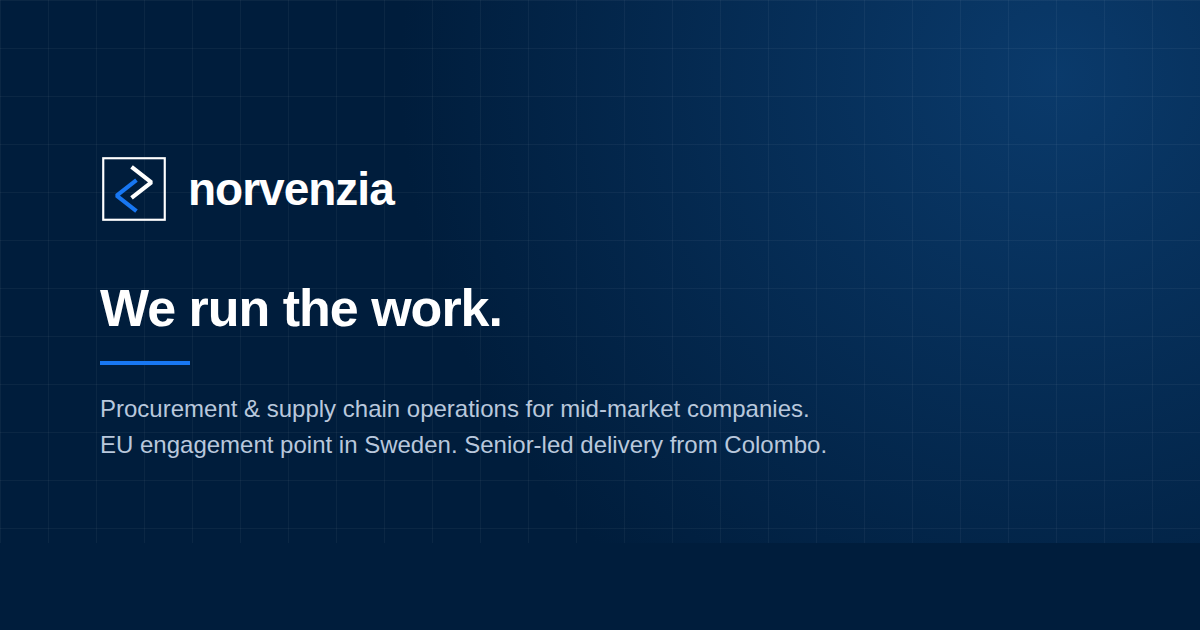
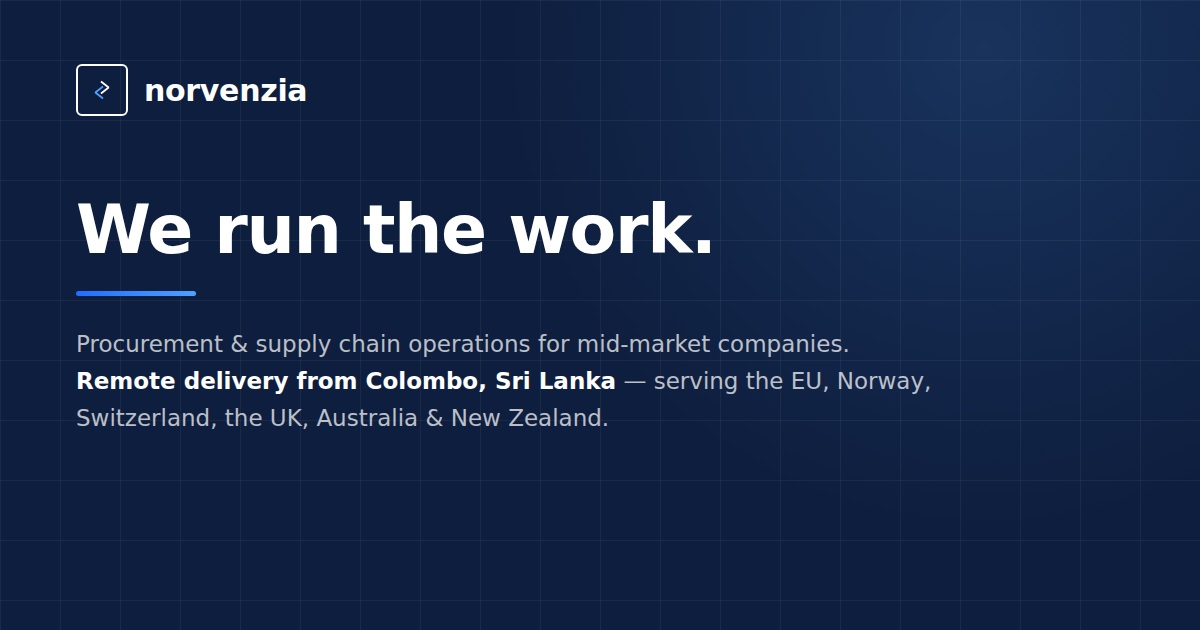
Remove the retired Sweden/Gothenburg dual-location model; single remote Colombo hub going forward
Business model change: Norvenzia now operates entirely remotely from a
single Colombo, Sri Lanka hub -- no office or physical presence anywhere
else. Serves clients internationally (wider EU, Norway, Switzerland, UK,
Australia, New Zealand) purely through remote delivery, not local
presence. Every "EU engagement point in Sweden" / Gothenburg reference
site-wide is retired.

- content/site.js: description rewritten; engagementPoint/deliveryHub
  (implied two locations) collapsed into a single `hub: 'Colombo, Sri
  Lanka'` field. Swedish phone number kept as-is for now, per explicit
  instruction, with a TODO flagging it for later revisit.
- content/how-we-work.js (The Model page): full rewrite -- meta
  description, hero body, the "Two locations, one accountable team"
  section renamed to "One hub, one accountable team" with new copy, the
  two Sweden/Sri Lanka panels replaced with "The hub" (Colombo, real
  flag image) and "The reach" (remote coverage across the listed
  markets, no invented second office or image), and the Sweden<->Sri
  Lanka data-flow FAQ item reworded to match.
- content/home.js: homepage FAQ "Are you based in Europe?" answer
  rewritten -- Colombo-only, remote.
- content/who-we-are.js: founder story's "owned from Gothenburg" removed.
- content/legal.js: privacy policy's "Who we are" and "Where your data is
  handled" sections rewritten around the single Colombo team instead of
  the Sweden-then-Sri-Lanka data flow. Still counselReviewed: false
[…]

Changed region(s): [[0.0617, 0.4524, 0.7708, 0.7238], [0.0617, 0.2413, 0.5858, 0.4222], [0.0617, 0.0905, 0.2775, 0.2111]]

diff --git a/content/how-we-work.js b/content/how-we-work.js
@@ -2,36 +2,41 @@ module.exports = {
   meta: {
     title: 'The Model — Norvenzia',
     description:
-      'An EU engagement point in Sweden paired with a senior-led delivery hub in Sri Lanka. Documented process, and a straight account of our security posture today.'
+      'A single Colombo-based team delivering senior-led procurement and supply chain operations remotely to clients across the EU, Norway, Switzerland, the UK, Australia, and New Zealand.'
   },
 
   hero: {
     eyebrow: 'The model',
     headline: 'A deliberate design, not an outsourcing euphemism.',
     body:
-      'An EU engagement point paired with a Sri Lanka delivery hub is the whole point of the model — not a detail we hide in the footer.'
+      'A senior, Colombo-based team running your procurement and supply chain operations remotely — not a detail we hide in the footer.'
   },
 
+  // Norvenzia is fully remote from a single Colombo hub -- no office or
+  // physical presence anywhere else (see content/site.js). These two panels
+  // are two facets of that one model (where the work happens, who it reaches),
+  // not two locations -- "The reach" panel deliberately carries no image/place,
+  // since there is no second office to show.
   model: {
     eyebrow: 'The model',
-    headline: 'Two locations, one accountable team.',
+    headline: 'One hub, one accountable team.',
     body: [
-      'Sweden is where you reach us. A real point of contact, operating in your time zone and your regulatory context, accountable for the work that gets delivered.',
-      'Sri Lanka is where the work happens. Senior supply chain and procurement analysts — not a rotating call-centre desk — working inside your existing tools and processes.',
-      'The split exists so you get EU-grade accountability and cost-efficient, senior-led delivery in the same engagement. Most outsourcing asks you to trade one for the other.'
+      'Colombo, Sri Lanka is where the work happens — and where you reach us. Senior supply chain and procurement analysts, not a rotating call-centre desk, working inside your existing tools and processes.',
+      'We serve clients across the wider EU, Norway, Switzerland, the UK, Australia, and New Zealand entirely remotely, on Colombo time — with no local office in any of those markets.',
+      'That’s the structure that makes senior-led delivery commercially viable for mid-market clients: proven enterprise-grade practice, applied to a segment usually priced out of it.'
     ],
     panels: [
       {
-        label: 'EU engagement point',
-        place: 'Sweden',
-        image: '/img/regions/se-06.png',
-        body: 'Contracting, communication, and accountability inside the EU.'
+        label: 'The hub',
+        place: 'Colombo, Sri Lanka',
+        image: '/img/regions/lk-06.png',
+        body: 'Senior analysts running your day-to-day procurement operations, in one accountable team.'
       },
       {
-        label: 'Delivery hub',
-        place: 'Sri Lanka',
-        image: '/img/regions/lk-06.png',
-        body: 'Senior analysts running your day-to-day procurement operations.'
+        label: 'The reach',
+        place: 'Remote, by design',
+        image: '',
+        body: 'Clients across the EU, Norway, Switzerland, the UK, Australia, and New Zealand — served remotely, with no local office in any of them.'
       }
     ]
   },
@@ -109,9 +114,9 @@ module.exports = {
           'It’s a fair question, so here’s a straight answer: we’re early, and we’ve said so throughout this site rather than dressing it up. What you get today is senior attention on your operation, run by someone with hands-on supply chain and procurement experience across telecom, garments, seafood, and logistics — not scale we haven’t earned yet. A discovery call costs you thirty minutes and tells you directly whether that trade-off works for your operation.'
       },
       {
-        question: 'How does our data actually move between Sweden and Sri Lanka?',
+        question: 'Where is our data actually handled?',
         answer:
-          'Your engagement point in Sweden handles contracting and communication. Where work is delivered from Sri Lanka, access is limited to the analysts assigned to your account, under confidentiality terms in every engagement agreement, with a Data Processing Agreement available on request. Full detail is in the data security section above.'
+          'Everything runs through our Colombo team. Access is limited to the analysts assigned to your account, under confidentiality terms in every engagement agreement, with a Data Processing Agreement available on request. Full detail is in the data security section above.'
       },
       {
         question: 'Do you replace our procurement team, or work alongside it?',

diff --git a/content/site.js b/content/site.js
@@ -1,6 +1,10 @@
 // Company facts, contact details, base URL.
-// TODO(founder): confirm the exact Sweden engagement-point framing and the
-// registered-company wording for the footer.
+//
+// Operating model (confirmed): Norvenzia is fully remote from a single hub in
+// Colombo, Sri Lanka -- no office or physical presence anywhere else. Clients
+// are served internationally (wider EU, Norway, Switzerland, UK, Australia,
+// New Zealand) entirely through remote delivery, not local presence. The
+// former "EU engagement point in Sweden" framing is retired.
 
 module.exports = {
   legalEntity: 'Norvenzia (Private) Limited',
@@ -11,17 +15,22 @@ module.exports = {
   // actual differentiator.
   tagline: 'We run the work.',
   description:
-    'Norvenzia runs procurement and supply chain operations for mid-market companies — an EU engagement point in Sweden with senior-led delivery from Colombo.',
+    'Norvenzia runs procurement and supply chain operations for mid-market companies — a single Colombo-based team, delivered fully remotely to clients across the EU, Norway, Switzerland, the UK, Australia, and New Zealand.',
   // Two genuinely separate inboxes — contactEmail is the contact-form
   // destination and the address shown on the contact page / home CTA;
   // footerEmail is a distinct address that only ever appears in the
   // footer. Do not merge these.
   contactEmail: 'info@norvenzia.com',
   footerEmail: 'contact@norvenzia.com',
+  // TODO(founder): this is a legacy Swedish number, kept for now at the
+  // founder's explicit instruction even though the business no longer has a
+  // Sweden presence. Revisit once a Colombo-based number (or removing phone
+  // contact entirely) is decided.
   phone: '+46 73 779 5741',
   registrationLine: 'Norvenzia (Private) Limited. All rights reserved.',
-  engagementPoint: 'Sweden',
-  deliveryHub: 'Colombo, Sri Lanka',
+  // Single hub, replacing the former engagementPoint/deliveryHub split (that
+  // pair implied two locations; there is only one now).
+  hub: 'Colombo, Sri Lanka',
   linkedinUrl: 'https://www.linkedin.com/company/norvenzia',
   baseUrl: process.env.BASE_URL || 'https://www.norvenzia.com'
 };

diff --git a/public/css/styles.css b/public/css/styles.css
@@ -1480,10 +1480,9 @@ button {
   padding-top: clamp(1.6rem, 2.4vw, 2.2rem);
 }
 
-/* How We Work's Sweden/Sri Lanka model cards — the same rounded, lifting
-   card chrome used for tier/product/fit cards elsewhere on the site,
-   scoped so the Security section's intentionally plain panels (no photos,
-   no hover) are untouched. */
+/* The Model's hub/reach cards — the same rounded, lifting card chrome used
+   for tier/product/fit cards elsewhere on the site, scoped so the Security
+   section's intentionally plain panels (no photos, no hover) are untouched. */
 .panel--model {
   border-radius: var(--radius-lg);
   transition: border-color 0.25s var(--ease), transform 0.25s var(--ease), box-shadow 0.25s var(--ease);
@@ -3817,69 +3816,6 @@ button {
   border-color: var(--color-text-white);
   background: rgba(255, 255, 255, 0.1);
   color: var(--color-text-white);
-}
-
-/* ---- 31.2 Route line — Gothenburg -> Colombo, replaces stock photography ---- */
-
-.route-line {
-  display: flex;
-  align-items: center;
-  gap: 1rem;
-  margin-top: clamp(3rem, 7vw, 5rem);
-  max-width: 30rem;
-}
-
-.route-line__label {
-  font-family: var(--font-mono);
-  font-size: 0.72rem;
-  letter-spacing: 0.14em;
-  color: var(--color-text-dim);
-  white-space: nowrap;
-}
-
-.route-line__track {
-  position: relative;
-  flex: 1;
-  height: 2px;
-  background: rgba(255, 255, 255, 0.16);
-}
-
-.route-line__dot {
-  position: absolute;
-  top: 50%;
-  width: 6px;
-  height: 6px;
-  border-radius: 50%;
-  background: var(--color-text-dim);
-  transform: translate(-50%, -50%);
-}
-
-.route-line__dot--start {
-  left: 0;
-}
-
-.route-line__dot--end {
-  left: 100%;
-}
-
-.route-line__pulse {
-  position: absolute;
-  top: 50%;
-  left: 0;
-  width: 8px;
-  height: 8px;
-  border-radius: 50%;
-  background: var(--color-accent);
-  box-shadow: 0 0 10px 2px rgba(47, 111, 237, 0.6);
-  transform: translate(-50%, -50%);
-  animation: route-pulse 3.4s ease-in-out infinite;
-}
-
-@keyframes route-pulse {
-  0% { left: 0%; opacity: 0; }
-  8% { opacity: 1; }
-  92% { opacity: 1; }
-  100% { left: 100%; opacity: 0; }
 }
 
 /* ---- 31.3 Social proof strip ---- */

diff --git a/content/legal.js b/content/legal.js
@@ -13,7 +13,7 @@ const privacy = {
     {
       heading: 'Who we are',
       body: [
-        'Norvenzia (Private) Limited runs procurement and supply chain operations for mid-market companies. Our engagement point for European clients is based in Sweden; delivery is carried out from Sri Lanka.',
+        'Norvenzia (Private) Limited runs procurement and supply chain operations for mid-market companies. We operate entirely remotely from a single team in Colombo, Sri Lanka, serving clients internationally.',
         'For any question about this policy, or about data we hold, write to info@norvenzia.com.'
       ]
     },
@@ -42,7 +42,7 @@ const privacy = {
     {
       heading: 'Where your data is handled',
       body: [
-        'Enquiry data reaches our engagement point in Sweden and, where relevant to scoping or delivering your engagement, our delivery team in Sri Lanka.',
+        'Enquiry data reaches our team in Colombo, Sri Lanka, where it is handled by the analysts assigned to your account.',
         'Sri Lanka is not covered by a European Commission adequacy decision. Where personal data is transferred there, we rely on appropriate safeguards, including contractual confidentiality terms and access limited to the analysts assigned to your account. A Data Processing Agreement is available on request.'
       ]
     },

diff --git a/content/who-we-are.js b/content/who-we-are.js
@@ -35,7 +35,7 @@ module.exports = {
     draftNotice: '',
     story: [
       'I started Norvenzia because I noticed that during the years I spent in supply chain and procurement operations across telecom, garments, seafood, and logistics, good mid-market companies choose between two bad options: overpaying for a full in-house procurement team they don’t need year-round, or underpaying for outsourced labour that never really understands the work.',
-      'There’s a third option: Norvenzia runs on people who’ve actually done this work, not people trained to sound like they have — delivered from Colombo, owned from Gothenburg, with a single person accountable for it in your time zone. No layers between the judgment and the job.',
+      'There’s a third option: Norvenzia runs on people who’ve actually done this work, not people trained to sound like they have — delivered remotely from Colombo, with a single person accountable for it. No layers between the judgment and the job.',
       'That’s the starting point, not the ceiling. Where we’re going is a KPO shaped for how supply chains actually run now, senior judgment first, technology built to sharpen it, never to replace it.'
     ]
   },

diff --git a/content/home.js b/content/home.js
@@ -166,7 +166,7 @@ module.exports = {
       {
         question: 'Are you based in Europe?',
         answer:
-          'Our client relationships and business development hub is in Gothenburg, Sweden. Delivery runs from Colombo, Sri Lanka — that’s the cost structure that makes this commercially viable for mid-market clients.'
+          'No — Norvenzia operates entirely remotely from a single team in Colombo, Sri Lanka, with no local office anywhere else. That’s the cost structure that makes senior-led delivery commercially viable for mid-market clients, while still working inside your time zone and process.'
       },
       {
         question: 'What’s the pricing model?',

diff --git a/lib/schema.js b/lib/schema.js
@@ -115,8 +115,7 @@ const sections = [
       { path: 'footerEmail', label: 'Footer email', type: 'text' },
       { path: 'phone', label: 'Phone (footer)', type: 'text' },
       { path: 'registrationLine', label: 'Registration line (footer)', type: 'text' },
-      { path: 'engagementPoint', label: 'Engagement point', type: 'text' },
-      { path: 'deliveryHub', label: 'Delivery hub', type: 'text' },
+      { path: 'hub', label: 'Hub location', type: 'text' },
       { path: 'linkedinUrl', label: 'Company LinkedIn URL', type: 'externalUrl' },
       { path: 'baseUrl', label: 'Canonical base URL', type: 'externalUrl' }
     ]
